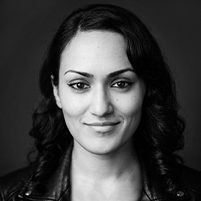
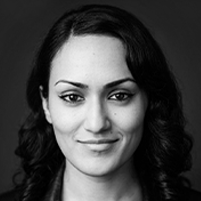
Describe what you changed

diff --git a/about.html b/about.html
@@ -431,8 +431,9 @@
                             </div>
                         </div>
                         <div class="edc-and-exp-box stack-box">
-                            <div class="img-box">
-                                <img src="https://cdn.jsdelivr.net/npm/simple-icons@v13/icons/adobeaftereffects.svg" alt="After Effects and Premiere">
+                            <div class="img-box tool-pair-icon">
+                                <img src="https://cdn.jsdelivr.net/npm/simple-icons@v13/icons/adobeaftereffects.svg" alt="After Effects">
+                                <img src="https://cdn.jsdelivr.net/npm/simple-icons@v13/icons/adobepremierepro.svg" alt="Premiere Pro">
                             </div>
                             <div class="content">
                                 <h3><a href="#">After Effects &amp; Premiere</a></h3>

diff --git a/index.html b/index.html
@@ -617,8 +617,9 @@
                             </div>
                         </div>
                         <div class="edc-and-exp-box stack-box">
-                            <div class="img-box">
-                                <img src="https://cdn.jsdelivr.net/npm/simple-icons@v13/icons/adobeaftereffects.svg" alt="After Effects and Premiere">
+                            <div class="img-box tool-pair-icon">
+                                <img src="https://cdn.jsdelivr.net/npm/simple-icons@v13/icons/adobeaftereffects.svg" alt="After Effects">
+                                <img src="https://cdn.jsdelivr.net/npm/simple-icons@v13/icons/adobepremierepro.svg" alt="Premiere Pro">
                             </div>
                             <div class="content">
                                 <h3><a href="#">After Effects &amp; Premiere</a></h3>

diff --git a/assets/css/style.css b/assets/css/style.css
@@ -1554,6 +1554,27 @@ main {
 .edc-and-exp-box .img-box img {
     display: block;
 }
+.stack-box .img-box > img {
+    filter: brightness(0) invert(1);
+}
+.stack-box .tool-pair-icon {
+    position: relative;
+}
+.stack-box .tool-pair-icon img {
+    position: absolute;
+    width: 36px;
+    height: 36px;
+}
+.stack-box .tool-pair-icon img:first-child {
+    left: 0;
+    top: 16px;
+    transform: rotate(-8deg);
+}
+.stack-box .tool-pair-icon img:last-child {
+    right: 0;
+    top: 8px;
+    transform: rotate(8deg);
+}
 .edc-and-exp-box .content .date {
     display: block;
     font-size: 10px;
